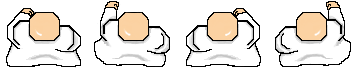
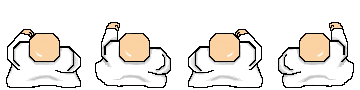
Pantalla pausa y sonidos

diff --git a/core/src/mx/itexm/naughty/screens/PantallaJuego.java b/core/src/mx/itexm/naughty/screens/PantallaJuego.java
@@ -1,39 +1,62 @@
 package mx.itexm.naughty.screens;
 
 import com.badlogic.gdx.Gdx;
+import com.badlogic.gdx.InputProcessor;
 import com.badlogic.gdx.assets.AssetManager;
 import com.badlogic.gdx.assets.loaders.resolvers.InternalFileHandleResolver;
 import com.badlogic.gdx.audio.Music;
 import com.badlogic.gdx.graphics.OrthographicCamera;
+import com.badlogic.gdx.graphics.Pixmap;
 import com.badlogic.gdx.graphics.Texture;
-import com.badlogic.gdx.graphics.g2d.Sprite;
+import com.badlogic.gdx.graphics.g2d.SpriteBatch;
 import com.badlogic.gdx.graphics.g2d.TextureRegion;
 import com.badlogic.gdx.maps.tiled.TiledMap;
 import com.badlogic.gdx.maps.tiled.TmxMapLoader;
 import com.badlogic.gdx.maps.tiled.renderers.OrthogonalTiledMapRenderer;
+import com.badlogic.gdx.math.Vector3;
 import com.badlogic.gdx.scenes.scene2d.Actor;
+import com.badlogic.gdx.scenes.scene2d.InputEvent;
+import com.badlogic.gdx.scenes.scene2d.InputListener;
 import com.badlogic.gdx.scenes.scene2d.Stage;
 import com.badlogic.gdx.scenes.scene2d.ui.Image;
 import com.badlogic.gdx.scenes.scene2d.ui.ImageButton;
 import com.badlogic.gdx.scenes.scene2d.ui.Skin;
 import com.badlogic.gdx.scenes.scene2d.ui.Touchpad;
 import com.badlogic.gdx.scenes.scene2d.utils.ChangeListener;
+import com.badlogic.gdx.scenes.scene2d.utils.ClickListener;
 import com.badlogic.gdx.scenes.scene2d.utils.TextureRegionDrawable;
 import com.badlogic.gdx.utils.viewport.StretchViewport;
 import com.badlogic.gdx.utils.viewport.Viewport;
 
+import java.sql.Time;
+
 import mx.itexm.naughty.entities.Controller;
+import mx.itexm.naughty.entities.EstadoJuego;
 import mx.itexm.naughty.entities.Personaje;
 
 class PantallaJuego extends Pantalla
 {
-    private static final float ANCHO_MAPA = 1280;
-    private static final float ALTO_MAPA = 704;
+
+    private boolean isPlaying;
+
+    // Botón atrás
+    private Texture texturaBtnAtras;
+
+    // Botón pausa
+    private Texture texturaBtnPausa;
+
+    // PAUSA
+    private EscenaPausa escenaPausa;      // Muestra la pausa como pop-up
+
+    // Estados. ahora el juego puede estar JUGANDO, PAUSADO, etc
+    private EstadoJuego estado;
+
+    private float ANCHO_MAPA = 1280;
+    private float ALTO_MAPA = 704;
     private final PantallaInicio juego;
     private Controller controller;
     private TiledMap mapa;
     private OrthogonalTiledMapRenderer renderer;
-    private Personaje personaje;
     private Personaje jhony;
 
     // HUD, otra cámara con la imagen fija
@@ -45,7 +68,6 @@ class PantallaJuego extends Pantalla
     private Skin skin;
     private Music music;
     private static Texture corazon;
-    private static Sprite spriteCorazon;
 
 
     public PantallaJuego(PantallaInicio juego) {
@@ -56,7 +78,8 @@ class PantallaJuego extends Pantalla
     public void show() {
         cargarMapa();
         crearHUD();
-        //cargarMusica();
+        cargarMusica();
+        estado = EstadoJuego.JUGANDO;
         jhony = new Personaje(new Texture("Personajes/Jhony_caminando.png"));
     }
 
@@ -86,11 +109,17 @@ class PantallaJuego extends Pantalla
         camaraHUD.position.set(ANCHO_JUEGO, ALTO_JUEGO, 0);
         camaraHUD.update();
 
+        //Corazones jugador
         corazon = new Texture("Personajes/corazon.png");
         Image corazonImagen = new Image(corazon);
         corazonImagen.setPosition(ANCHO_JUEGO - corazonImagen.getWidth(), ALTO_JUEGO - corazonImagen.getHeight());
 
 
+        // Botón atrás y botón pausa
+        TextureRegionDrawable trdPausa = new TextureRegionDrawable(new TextureRegion(new Texture("Botones/btnPausa.png")));
+        TextureRegionDrawable trdBack = new TextureRegionDrawable(new TextureRegion(new Texture("Botones/backBtn.png")));
+        ImageButton btnPausa = new ImageButton(trdPausa, trdBack);
+        btnPausa.setPosition(ANCHO_JUEGO/2 - btnPausa.getWidth(), ALTO_JUEGO - btnPausa.getHeight());
 
         vistaHUD = new StretchViewport(ANCHO_JUEGO, ALTO_JUEGO, camaraHUD);
         controller = new Controller(0);
@@ -118,12 +147,25 @@ class PantallaJuego extends Pantalla
         });
         controller.setColor(1,1,1,0.7f);   // Transparente
 
+        btnPausa.addListener(new ClickListener() {
+            @Override
+            public void clicked(InputEvent event, float x, float y) {
+                super.clicked(event, x, y);
+                if(escenaPausa == null){
+                    escenaPausa = new EscenaPausa(vistaHUD, batchJuego);
+                }
+                estado = EstadoJuego.PAUSADO;
+                Gdx.input.setInputProcessor(escenaPausa);
+            }
+        });
 
         // Crea la escena y agrega el pad
         escenaHUD = new Stage(vistaHUD);    // Escalar con esta vista
         escenaHUD.addActor(controller);
         escenaHUD.addActor(corazonImagen);
+        escenaHUD.addActor(btnPausa);
         //corazonImagen.remove();
+
         Gdx.input.setInputProcessor(escenaHUD);
     }
 
@@ -144,6 +186,11 @@ class PantallaJuego extends Pantalla
         jhony.render(batchJuego);
         batchJuego.end();
 
+        // Checar condicional
+
+        if (estado==EstadoJuego.PAUSADO) {
+            escenaPausa.draw(); // Solo si está pausado muestra la imagen
+        }
         // Cámara HUD
         batchJuego.setProjectionMatrix(camaraHUD.combined);
         escenaHUD.draw();
@@ -185,7 +232,6 @@ class PantallaJuego extends Pantalla
 
     @Override
     public void pause() {
-
     }
 
     @Override
@@ -200,4 +246,57 @@ class PantallaJuego extends Pantalla
         skin.dispose();
         music.dispose();
     }
+
+    private class EscenaPausa extends Stage
+    {
+        // La escena que se muestra cuando está pausado
+        public EscenaPausa(final Viewport vistaHUD, SpriteBatch batchJuego) {
+            super(vistaHUD,batchJuego);
+            // Crear rectángulo transparente
+            Pixmap pixmap = new Pixmap((int)(ANCHO_JUEGO*0.7f), (int)(ALTO_JUEGO*0.8f), Pixmap.Format.RGBA8888 );
+            pixmap.setColor( 1f, 1f, 1f, 0.65f );
+            pixmap.fillRectangle(0, 0, pixmap.getWidth(), pixmap.getHeight());
+            Texture texturaRectangulo = new Texture( pixmap );
+            pixmap.dispose();
+            Image imgRectangulo = new Image(texturaRectangulo);
+            imgRectangulo.setPosition(0.15f*ANCHO_JUEGO, 0.1f*ALTO_JUEGO);
+            this.addActor(imgRectangulo);
+
+            // Salir
+            Texture texturaBtnSalir = new Texture("Botones/btnSalir.png");
+            TextureRegionDrawable trdSalir = new TextureRegionDrawable(new TextureRegion(texturaBtnSalir));
+            final ImageButton btnSalir = new ImageButton(trdSalir);
+            btnSalir.setPosition(ANCHO_JUEGO/2-btnSalir.getWidth()/2, ALTO_JUEGO/2);
+            btnSalir.addListener(new ClickListener(){
+                @Override
+                public void clicked(InputEvent event, float x, float y) {
+                    if(btnSalir.isChecked()) {
+                        btnSalir.setChecked(true);
+                        music.play();
+                    } else {
+                        btnSalir.setChecked(false);
+                        music.play();
+                    }
+                }
+            });
+            this.addActor(btnSalir);
+
+            // Continuar
+            Texture texturaBtnContinuar = new Texture("Botones/btnContinuar.png");
+            TextureRegionDrawable trdContinuar = new TextureRegionDrawable(new TextureRegion(texturaBtnContinuar));
+            ImageButton btnContinuar = new ImageButton(trdContinuar);
+            btnContinuar.setPosition(ANCHO_JUEGO/2-btnContinuar.getWidth()/2, ALTO_JUEGO/4);
+
+            btnContinuar.addListener(new ClickListener(){
+                @Override
+                public void clicked(InputEvent event, float x, float y) {
+                    // Regresa al juego
+                    estado = EstadoJuego.JUGANDO;
+                    Gdx.input.setInputProcessor(escenaHUD); // No debería crear uno nuevo
+                }
+            });
+            this.addActor(btnContinuar);
+        }
+    }
+
 }

diff --git a/core/src/mx/itexm/naughty/screens/PantallaAjustes.java b/core/src/mx/itexm/naughty/screens/PantallaAjustes.java
@@ -3,10 +3,13 @@ package mx.itexm.naughty.screens;
 import com.badlogic.gdx.Gdx;
 import com.badlogic.gdx.graphics.Texture;
 import com.badlogic.gdx.graphics.g2d.TextureRegion;
+import com.badlogic.gdx.scenes.scene2d.Actor;
 import com.badlogic.gdx.scenes.scene2d.InputEvent;
 import com.badlogic.gdx.scenes.scene2d.Stage;
 import com.badlogic.gdx.scenes.scene2d.ui.ImageButton;
+import com.badlogic.gdx.scenes.scene2d.utils.ChangeListener;
 import com.badlogic.gdx.scenes.scene2d.utils.ClickListener;
+import com.badlogic.gdx.scenes.scene2d.utils.Drawable;
 import com.badlogic.gdx.scenes.scene2d.utils.TextureRegionDrawable;
 
 class PantallaAjustes extends Pantalla {
@@ -20,18 +23,32 @@ class PantallaAjustes extends Pantalla {
         this.pantallaInicio=pantallaInicio;
     }
     private void crearEscena(){
-        escenaAjustes=new Stage(vistaPantalla);
+        escenaAjustes = new Stage(vistaPantalla);
 
         TextureRegionDrawable trdRegresar_up=new TextureRegionDrawable(new TextureRegion(new Texture("Botones/regresar.png")));
         TextureRegionDrawable trdRegresar_down=new TextureRegionDrawable(new TextureRegion(new Texture("Botones/regresar_s.png")));
         TextureRegionDrawable trdCasiilla_up=new TextureRegionDrawable(new TextureRegion(new Texture("Botones/check.png")));
         TextureRegionDrawable trdCasilla_down=new TextureRegionDrawable(new TextureRegion(new Texture("Botones/check_s.png")));
 
-        ImageButton btnReg=new ImageButton(trdRegresar_up,trdRegresar_down);
-        ImageButton btnCheck1=new ImageButton(trdCasiilla_up,trdCasilla_down);
-        ImageButton btnCheck2=new ImageButton(trdCasiilla_up,trdCasilla_down);
+
+        ImageButton btnReg = new ImageButton(trdRegresar_up,trdRegresar_down);
+
+        final ImageButton btnCheck1 = new ImageButton(trdCasiilla_up,trdCasilla_down, trdCasilla_down);
+        ImageButton btnCheck2 = new ImageButton(trdCasiilla_up,trdCasilla_down);
         btnReg.setPosition(50,50);
         btnCheck1.setPosition(ANCHO_PANTALLA*0.60f,ALTO_PANTALLA*0.60f);
+        btnCheck1.addListener(new ClickListener() {
+            @Override
+            public void clicked(InputEvent event, float x, float y) {
+                super.clicked(event, x, y);
+                if(btnCheck1.isChecked()){
+                    btnCheck1.setChecked(true);
+                } else{
+                    btnCheck1.setChecked(false);
+                }
+            }
+        });
+
         btnCheck2.setPosition(ANCHO_PANTALLA*0.60f,ALTO_PANTALLA*0.30f);
         btnReg.addListener(new ClickListener(){
             @Override
@@ -40,6 +57,8 @@ class PantallaAjustes extends Pantalla {
                 pantallaInicio.setScreen(new PantallaMenu(pantallaInicio));
             }
         });
+
+
         escenaAjustes.addActor(btnReg);
         escenaAjustes.addActor(btnCheck1);
         escenaAjustes.addActor(btnCheck2);

diff --git a/core/src/mx/itexm/naughty/entities/Personaje.java b/core/src/mx/itexm/naughty/entities/Personaje.java
@@ -28,9 +28,9 @@ public class Personaje extends Objeto{
         TextureRegion region = new TextureRegion(texture);
 
         // Divide la región en frames de 32x64
-        TextureRegion[][] texturaPersonaje = region.split(88,64);
+        TextureRegion[][] texturaPersonaje = region.split(90,90);
 
-        animacion = new Animation(0.15f,texturaPersonaje[0][3],texturaPersonaje[0][2],texturaPersonaje[0][1]);
+        animacion = new Animation(0.15f,texturaPersonaje[0][0],texturaPersonaje[0][1],texturaPersonaje[0][3], texturaPersonaje[0][4]);
         animacion.setPlayMode(Animation.PlayMode.LOOP);
         timerAnimacion = 0;
 
@@ -54,7 +54,7 @@ public class Personaje extends Objeto{
             if (estadoMover == EstadoMovimento.IZQUIERDA) {
                 region.flip(!region.isFlipX(), false);
             } else if (estadoMover == EstadoMovimento.DERECHA) {
-                region.flip(false, region.isFlipX());
+                region.flip(region.isFlipX(), false);
             } else if (estadoMover == EstadoMovimento.ARRIBA) {
                 region.flip(false, region.isFlipY());
             } else if (estadoMover == EstadoMovimento.ABAJO) {
@@ -88,8 +88,8 @@ public class Personaje extends Objeto{
 
     private boolean puedeMover(TiledMap mapa, float dirX, float dirY) {
         // Verifica si lo que esta delante de el es un obstaculo
-        int cx = (int)(x+dirX*64)/32;
-        int cy = (int)(y+dirY*64)/32;
+        int cx = (int)(x+dirX*90)/32;
+        int cy = (int)(y+dirY*45)/32;
         // Obtener la celda en x,y
         TiledMapTileLayer capa = (TiledMapTileLayer)mapa.getLayers().get(0);
         TiledMapTileLayer.Cell celda = capa.getCell(cx,cy);

diff --git a/core/src/mx/itexm/naughty/screens/PantallaPausa.java b/core/src/mx/itexm/naughty/screens/PantallaPausa.java
@@ -1,6 +1,9 @@
 package mx.itexm.naughty.screens;
 
+import com.badlogic.gdx.graphics.Pixmap;
+import com.badlogic.gdx.graphics.g2d.SpriteBatch;
 import com.badlogic.gdx.scenes.scene2d.Stage;
+import com.badlogic.gdx.utils.viewport.Viewport;
 
 public class PantallaPausa extends Stage {
 
